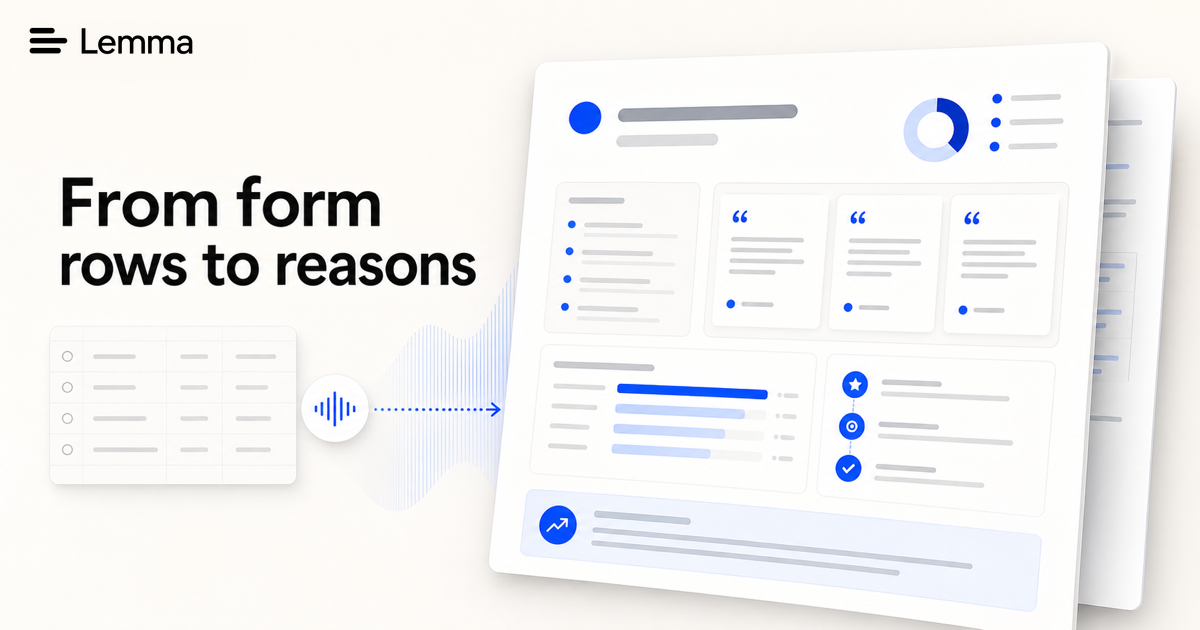
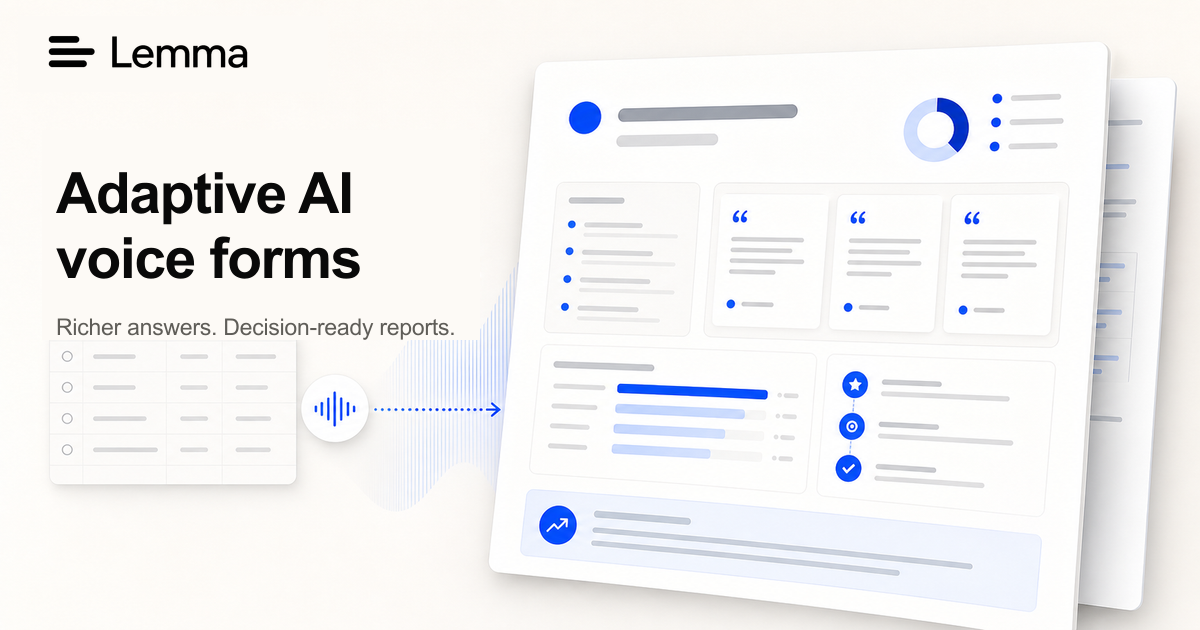
Refine default social preview copy

Changed region(s): [[0.0308, 0.2714, 0.4008, 0.4524], [0.0, 0.0302, 0.2158, 0.1206], [0.0308, 0.5127, 0.4008, 0.5429]]

diff --git a/src/lib/seo.ts b/src/lib/seo.ts
@@ -7,7 +7,7 @@ const defaultImage = {
   url: "/assets/forms-vs-interviews-og.png",
   width: 1200,
   height: 630,
-  alt: "Lemma turns static form rows into reasons, quotes, themes, and next actions.",
+  alt: "Lemma adaptive AI voice forms turn richer answers into decision-ready reports.",
 };
 
 type MetadataImage = {
